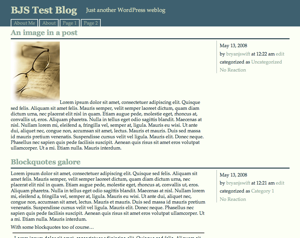
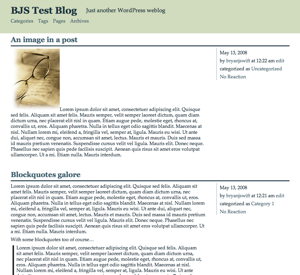
Page restyling * added suckerfish menus to header for Categories, Tags, Pages and Archives * added page specific templates for categories, tags and pages in the same vein as archives.php * updated the screenshot * removed blogroll and archives from the default sidebar as they are now in the header *

diff --git a/style.css b/style.css
@@ -27,7 +27,7 @@ along with this program.  If not, see <http://www.gnu.org/licenses/>.
 /* Styles Reset and General Fonts */
 * { margin: 0; padding: 0; border: 0; }
 html { font-size: 16px; }
-body { font-size: 1em; font-family: Palatino, Tahoma, Verdana, Arial, sans-serif; line-height: 1.2em; color: #193441; background: #3E606F; }
+body { font-size: 1em; font-family: Palatino, Tahoma, Verdana, Arial, sans-serif; line-height: 1.2em; color: #193441; }
 h1, h2, h3, h4, h5 { font-family: Georgia, "Times New Roman", Times, serif; clear: both; }
 ul, li { list-style: none; }
 /* General Font Sizing and Element Styles */
@@ -35,21 +35,22 @@ h1 { font-size: 2em; line-height: 1.2em; }
 h2 { font-size: 1.5em; line-height: 1.2em; }
 h3, h4 { font-size: 1.3em; line-height: 1.2em; }
 h5 { font-size: 1.1em; line-height: 1.2em; }
-a { color: #91AA9D; text-decoration: none; }
+a { color: #3E606F; text-decoration: none; }
 a:hover { text-decoration: underline; }
 p { margin: 0.5em 0; }
 code { font-size: 0.9em; font-family: Courier, serif; }
-blockquote { padding: 0 0.4em; margin: 0 0.35em; position: relative; border: solid #222; border-width: 2px 0; }
+blockquote { padding: 0 0.5em; margin: 0 0.35em; position: relative; border: solid #222; border-width: 0 0 0 5px; }
 pre { font-family: Courier, serif; font-size: 0.9em; margin: 0 0.5em; }
 input, textarea { border: 1px solid #193441; }
 /* Main Layout Pieces */
 div.wrap { padding: 0 3.5%; }
-#header { padding-top: 1em; }
-#body { clear: left; background: #FCFFF5; }
+#header { padding-top: 1em; background: #D1DBBD; }
+#body { clear: left; }
 .posts { padding: 0; }
-.sidebar { padding: 1em 3.5%; color: #D1DBBD; }
-#footer { clear: left; text-align: center; color: #D1DBBD; }
-#footer a { color: #D1DBBD; }
+.sidebar { padding: 1em 3.5% 0; color: #193441; background: #D1DBBD; }
+#footer { clear: left; text-align: center; padding: 0 0 0.5em; background: #D1DBBD; }
+#footer p { margin: 0; }
+#footer a { color: #193441; }
 /* Wordpress Generated Classes */
 .alignleft { float: left; padding: 0.5em 0.5em 0.5em 0; }
 .aligncenter { display: block; margin: auto; padding: 0.5em 0; }
@@ -57,12 +58,19 @@ div.wrap { padding: 0 3.5%; }
 .clear { clear: both; }
 /* Header Styles */
 #header .title { float: left; padding: 0 1em 0 0; }
-#header .title a { color: #D1DBBD; }
-#header .description { font-size: 1.2em; color: #D1DBBD; line-height: 1em; float: left; padding: 0.5em 0 0; margin: 0; }
-* html #header .description { height: 1%; } /* --- CSS HACK --- Added so IE will contain all floated content (auto-clearing effect) */
-#header .description:after { content: "."; display: block; visibility: hidden; height: 0px; overflow: hidden; clear: both; }
-#header .pages { clear: left; padding: 1em 0 0; }
-#header .pages li { display: inline; padding: 0.3em 0.5em; border: solid #FCFFF5; border-width: 2px 2px 0 2px; }
+#header .title a { color: #193441; }
+#header .description { font-size: 1.2em; color: #193441; line-height: 1em; float: left; padding: 0.5em 0 0; margin: 0; }
+/* Nav Styles */
+#nav { clear: left; padding: 0.5em 0 0.7em; }
+#nav .parent { float: left; padding: 0 1em 0 0; }
+#nav .parent:hover .child, #nav .hovered .child { left: auto; }
+#nav .child { position: absolute; left: -15000px; z-index: 5; background: #D1DBBD; padding: 0 0.5em; width: 10em; }
+html > body #nav .child { min-width: 10em; width: auto; } /* --- CSS HACK --- Added because of IE6's lack of min-width support */
+#nav .child li { padding: 0.3em 0 0; }
+#nav .child li:last-child { padding-bottom: 0.3em; }
+#nav .child ul { padding-left: 0.5em; }
+* html #nav { height: 1%; } /* --- CSS HACK --- Added so IE will contain all floated content (auto-clearing effect) */
+#nav:after { content: "."; display: block; visibility: hidden; height: 1%; overflow: hidden; clear: both; }
 /* Body Styles */
 #body .navigation { clear: left; }
 #body .navigation:first-child { display: none; }
@@ -70,10 +78,9 @@ div.wrap { padding: 0 3.5%; }
 .navigation { min-height: 1em; }
 .post { padding: 7px 0 7px 0; position: relative; }
 * html .post { height: 1%; } /* --- CSS HACK --- Added so IE will contain all floated content (auto-clearing effect) */
-.post:after { content: "."; display: block; visibility: hidden; height: 0px; overflow: hidden; clear: both; }
+.post:after { content: "."; display: block; visibility: hidden; height: 1%; overflow: hidden; clear: both; }
 .post .title { padding-bottom: 5px; border-bottom: 3px solid #193441; }
 .post .meta { margin-top: 5px; padding-left: 10px; border-left: 1px dotted #193441; float: right; width: 25%; }
-.post .meta a { color: #91AA9D; }
 .post .content { float: left; width: 70%; }
 .post .content p {  }
 .post .feedback {  }
@@ -91,8 +98,9 @@ div.wrap { padding: 0 3.5%; }
 #commentform textarea { width: 100%; }
 /* Sidebar Styles */
 * html .sidebar .widgets { height: 1%; } /* --- CSS HACK --- Added so IE will contain all floated content (auto-clearing effect) */
-.sidebar .widgets:after { content: "."; height: 1%; display: block; visibility: hidden; overflow: hidden; }
-.sidebar .widgets li { float: left; width: 25%; }
-* html .sidebar .widgets ul { height: 1%; } /* --- CSS HACK --- Added so IE will contain all floated content (auto-clearing effect) */
-.sidebar .widgets ul:after { content: "."; height: 1%; display: block; visibility: hidden; overflow: hidden; }
-.sidebar .widgets ul li { float: none; width: auto; }
+.sidebar .widgets:after { content: "."; height: 1%; display: block; visibility: hidden; overflow: hidden; clear: both; }
+.sidebar .widgets li { float: left; padding-left: 1em; clear: left; }
+.sidebar .widgets li:first-child { padding-left: 0; }
+.sidebar .widgets .widget { padding-left: 0; padding-bottom: 0.15em; }
+.sidebar .widgets ul li { clear: none; width: auto; }
+.sidebar .widgets .title { font-size: 1em; float: left; padding-right: 1em; }

diff --git a/header.php b/header.php
@@ -6,7 +6,7 @@
 		<?php if (is_home() || is_archive()) : ?>
 			<meta name="robots" content="noindex,nocache,follow" />
 		<?php endif; ?>
-		<title><?php bloginfo('name'); ?><?php wp_title(); ?></title>
+		<title><?php wp_title('&laquo;',true,'right'); ?><?php bloginfo('name'); ?></title>
 		<link rel="stylesheet" type="text/css" href="<?php bloginfo('stylesheet_url'); ?>" media="screen" />
 		<link rel="alternate" type="application/rss+xml" title="RSS 2.0" href="<?php bloginfo('rss2_url'); ?>" />
 		<link rel="alternate" type="text/xml" title="RSS .92" href="<?php bloginfo('rss_url'); ?>" />
@@ -16,20 +16,35 @@
 	</head>
 	<?php flush(); ?>
 	<body> <!-- ends in footer.php -->
-		<?php
-			$requestUri = $_SERVER['REQUEST_URI'];
-			$wpPages = wp_list_pages('title_li=0&echo=0&sort_column=post_date&depth=1');
-		?>
 		<div id="header" class="wrap">
 			<h1 class="title"><a href="<?php bloginfo('url'); ?>/"><?php bloginfo('name'); ?></a></h1>
 			<p class="description"><?php bloginfo('description'); ?></p>
-			<?php if (isset($wpPages) && "" != $wpPages) : ?>
-				<ul class="pages">
-					<?php echo $wpPages; ?>
-				</ul>
-			<?php else : ?>
-				<div class="clear">&nbsp;</div>
-			<?php endif; ?>
+			<ul id="nav">
+				<li class="parent categories">
+					<a href="<?php bloginfo('url'); ?>/categories/" title="Categories"><?php _e('Categories'); ?></a>
+					<ul class="child">
+						<?php wp_list_categories('title_li=0&show_count=1'); ?>
+					</ul>
+				</li>
+				<li class="parent tags">
+					<a href="<?php bloginfo('url'); ?>/tags/" title="Tags"><?php _e('Tags'); ?></a>
+					<ul class="child">
+						<?php wp_tag_cloud('unit=em&smallest=1&largest=1&format=list'); ?>
+					</ul>
+				</li>
+				<li class="parent pages">
+					<a href="<?php bloginfo('url'); ?>/pages/" title="Pages"><?php _e('Pages'); ?></a>
+					<ul class="child">
+						<?php wp_list_pages('title_li=0&sort_column=post_date'); ?>
+					</ul>
+				</li>
+				<li class="parent archives">
+					<a href="<?php bloginfo('url'); ?>/archives/" title="Archives"><?php _e('Archives'); ?></a>
+					<ul class="child">
+						<?php wp_get_archives('type=monthly&show_post_count=1'); ?>
+					</ul>
+				</li>
+			</ul>
 		</div>
 		<div id="body" class="wrap"> <!-- ends in footer.php -->
 			<!-- content filled in here -->

diff --git a/sidebar.php b/sidebar.php
@@ -2,22 +2,13 @@
 <div class="sidebar">
 	<ul class="widgets">
 		<?php if (!function_exists('dynamic_sidebar') || !dynamic_sidebar()) : /* Widgetized sidebar, if you have the plugin installed. */ ?>
-			<?php wp_list_bookmarks('title_after=&title_before='); ?>
-			<li id="search">
-				<label for="s"><?php _e('Search:'); ?></label>
-				<form id="searchform" method="get" action="<?php bloginfo('home'); ?>">
-					<div>
-						<input type="text" name="s" id="s" size="15" /><br />
-						<input type="submit" value="<?php _e('Search'); ?>" />
-					</div>
-				</form>
+			<?php wp_list_bookmarks('title_li=0&class=widget&title_after=:</h2>&title_before=<h2 class="title">'); ?>
+			<li id="search" class="widget">
+				<h2 class="title"><label for="s"><?php _e('Search:'); ?></label></h2>
+				<?php include (TEMPLATEPATH . '/searchform.php'); ?>
 			</li>
-			<li id="archives"><?php _e('Archives:'); ?>
-				<ul>
-					<?php wp_get_archives('type=monthly'); ?>
-				</ul>
-			</li>
-			<li id="meta"><?php _e('Meta:'); ?>
+			<li id="meta" class="widget">
+				<h2 class="title"><?php _e('Meta:'); ?></h2>
 				<ul>
 					<?php wp_register(); ?>
 					<li><?php wp_loginout(); ?></li>

diff --git a/functions.php b/functions.php
@@ -1,10 +1,26 @@
 <?php
-if (function_exists('register_sidebar'))
-	register_sidebar(array(
-		'name' => 'Left Nav',
-		'before_widget' => '<li class="widget %2$s">',
-		'after_widget' => '</li>',
-		'before_title' => '<h2 class="title">',
-		'after_title' => '</h2>',
-	));
+	if (function_exists('register_sidebar')) {
+		register_sidebar(array(
+			'name' => 'Left Nav',
+			'before_widget' => '<li class="widget %2$s">',
+			'after_widget' => '</li>',
+			'before_title' => '<h2 class="title">',
+			'after_title' => '</h2>',
+		));
+	}
+?>
+<?php
+	function bjs_widget_search($args) {
+		extract($args);
+		echo $before_widget;
+		echo $before_title;
+		_e("Search");
+		echo $after_title;
+		include (TEMPLATEPATH . '/searchform.php');
+		echo $after_widget;
+	}
+?>
+<?php
+	$widgetOptions = array('classname' => 'widget_search', 'description' => __( "A search form for your blog"));
+	wp_register_sidebar_widget('search',__('Search'),'bjs_widget_search',$widgetOptions);
 ?>

diff --git a/archives.php b/archives.php
@@ -1,13 +1,20 @@
+<?php
+/*
+Template Name: Archive Index
+*/
+?>
 <?php get_header(); ?>
-<div id="content" class="widecolumn">
-	<?php include (TEMPLATEPATH . '/searchform.php'); ?>
-	<h2>Archives by Month:</h2>
-	<ul>
-		<?php wp_get_archives('type=monthly'); ?>
-	</ul>
-	<h2>Archives by Subject:</h2>
-	<ul>
-		 <?php wp_list_categories(); ?>
-	</ul>
+<div id="content" class="posts singlePage">
+	<div class="page post">
+		<?php include (TEMPLATEPATH . '/searchform.php'); ?>
+		<h2 class="title"><?php _e('Archives by Month:'); ?></h2>
+		<ul>
+			<?php wp_get_archives('type=monthly'); ?>
+		</ul>
+		<h2 class="title"><?php _e('Archives by Subject:'); ?></h2>
+		<ul>
+			 <?php wp_list_categories('title_li=0'); ?>
+		</ul>
+	</div>
 </div>
 <?php get_footer(); ?>

diff --git a/categories.php b/categories.php
@@ -1,0 +1,17 @@
+<?php
+/*
+Template Name: Category Archive
+*/
+?>
+<?php get_header(); ?>
+<div id="content" class="posts singlePage">
+	<div class="page post">
+		<h2 class="title"><?php _e("Categories"); ?></h2>
+		<div class="content">
+			<ul class="categories">
+				<?php wp_list_categories('title_li=0&show_count=1'); ?>
+			</ul>
+		</div>
+	</div>
+</div> <!-- end of div.posts -->
+<?php get_footer(); ?>

diff --git a/pages.php b/pages.php
@@ -1,0 +1,17 @@
+<?php
+/*
+Template Name: Page Archive
+*/
+?>
+<?php get_header(); ?>
+<div id="content" class="posts singlePage">
+	<div class="page post">
+		<h2 class="title"><?php _e("Pages"); ?></h2>
+		<div class="content">
+			<ul class="pages">
+				<?php wp_list_pages('title_li=0&sort_column=post_date'); ?>
+			</ul>
+		</div>
+	</div>
+</div> <!-- end of div.posts -->
+<?php get_footer(); ?>

diff --git a/tags.php b/tags.php
@@ -1,0 +1,15 @@
+<?php
+/*
+Template Name: Tag Archive
+*/
+?>
+<?php get_header(); ?>
+<div id="content" class="posts singlePage">
+	<div class="page post">
+		<h2 class="title"><?php _e("Tags"); ?></h2>
+		<div class="content">
+			<?php wp_tag_cloud('unit=em&smallest=0.9&largest=2'); ?>
+		</div>
+	</div>
+</div> <!-- end of div.posts -->
+<?php get_footer(); ?>
